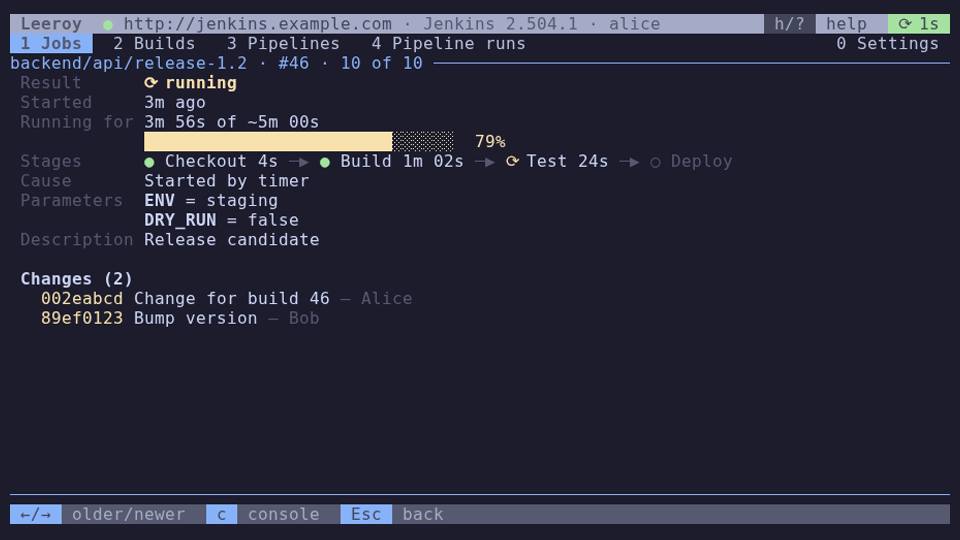
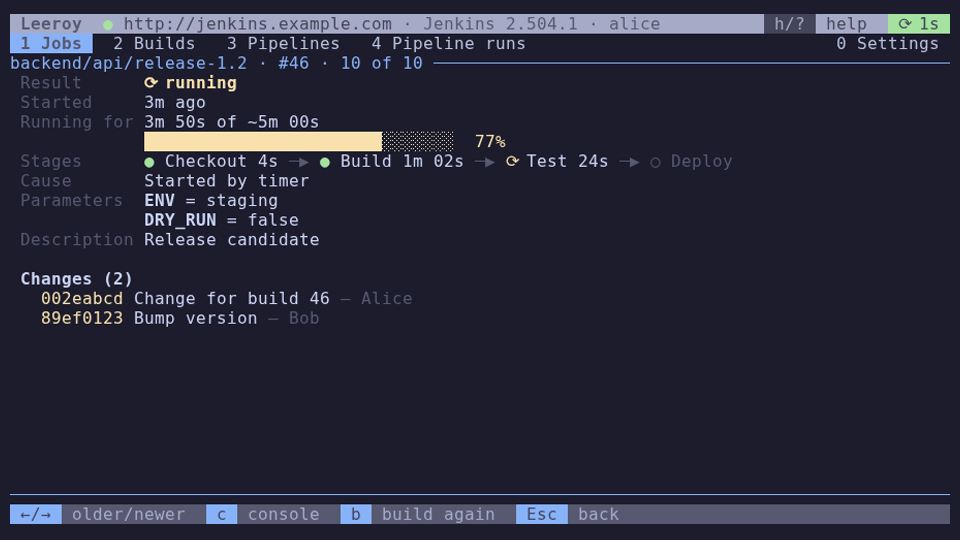
Start a build of a job with b
On the Jobs and Builds tabs b builds the selected job; in the build view
and the console it builds the shown build's job again. Same prompt
(titled "Start a build?"), trigger and notice as for pipeline runs;
afterwards what's on screen is refreshed.

diff --git a/src/app.rs b/src/app.rs
@@ -785,7 +785,7 @@ impl App {
                 }
             }
             Action::RequestStartRun => {
-                self.confirm_start = self.pipeline_to_start();
+                self.confirm_start = self.start_target();
             }
             Action::ConfirmStartRun => {
                 let Some(start) = self.confirm_start.take() else {
@@ -794,21 +794,22 @@ impl App {
                 let Some(config) = self.settings.connection_config() else {
                     return Vec::new();
                 };
+                let what = if start.pipeline { "run" } else { "build" };
                 return vec![Effect::TriggerBuild {
+                    name: format!("a {what} of {}", start.name),
                     job: start.job,
-                    name: start.name,
                     config,
                 }];
             }
             Action::BuildTriggered { name, result } => {
                 let ok = result.is_ok();
                 self.notice = Some(match result {
-                    Ok(()) => Notice::info(format!("Started a run of {name}"), self.now),
+                    Ok(()) => Notice::info(format!("Started {name}"), self.now),
                     Err(err) => Notice::error(format!("Could not start {name}: {err}"), self.now),
                 });
                 if ok {
                     // The new build appears once Jenkins starts it; look now.
-                    return self.fetch_pipelines();
+                    return self.refresh();
                 }
             }
             Action::OpenPromote => {
@@ -1743,13 +1744,24 @@ impl App {
         (pipeline, run)
     }
 
-    /// The pipeline `b` would start: selected in the Pipelines tab, or the one
-    /// the run view shows.
-    fn pipeline_to_start(&self) -> Option<StartRun> {
+    /// What `b` would start: the selected job (Jobs, Builds tabs) or the
+    /// shown build's job (build view, console) — or a pipeline: selected in
+    /// the Pipelines tab, or the one the run view shows.
+    fn start_target(&self) -> Option<StartRun> {
+        let job = |name: &str| {
+            Some(StartRun {
+                job: name.to_owned(),
+                name: name.to_owned(),
+                pipeline: false,
+            })
+        };
         let pipelines = match self.view {
+            View::Jobs => return job(&self.jobs.visible().get(self.jobs.selected)?.full_name),
+            View::Builds => return job(&self.history.visible().get(self.history.selected)?.job),
+            View::Build | View::Console => return job(&self.build.as_ref()?.job),
             View::Pipelines => self.pipelines.visible_pipelines(),
             View::Run => self.pipelines.pipelines(),
-            _ => return None,
+            View::Runs | View::Settings => return None,
         };
         let pipeline = match self.view {
             View::Pipelines => pipelines.get(self.pipelines.list.selected)?,
@@ -1761,6 +1773,7 @@ impl App {
         Some(StartRun {
             job: pipeline.first_job.clone(),
             name: pipeline.name.clone(),
+            pipeline: true,
         })
     }
 
@@ -2027,12 +2040,14 @@ pub struct PromoteList {
     pub ticked: std::collections::BTreeSet<usize>,
 }
 
-/// A pipeline to start (the "Start a run?" prompt).
+/// A job or pipeline to start (the "Start a build/run?" prompt).
 #[derive(Debug, Clone, PartialEq, Eq)]
 pub struct StartRun {
-    /// Its first job: the one that gets built.
+    /// The job that gets built (a pipeline's first job).
     pub job: String,
     pub name: String,
+    /// A pipeline run rather than a single job's build.
+    pub pipeline: bool,
 }
 
 /// How long a [`Notice`] stays on screen.
@@ -3831,7 +3846,7 @@ mod tests {
         assert_eq!(app.context(), Context::Pipelines, "prompt closed");
 
         let effects = app.update(Action::BuildTriggered {
-            name: "app".into(),
+            name: "a run of app".into(),
             result: Ok(()),
         });
         assert!(pipelines_fetch(&effects), "looks for the new run");
@@ -3851,9 +3866,9 @@ mod tests {
         app.update(Action::Back);
         assert_eq!(app.confirm_start, None);
         assert!(app.update(Action::ConfirmStartRun).is_empty());
-        app.update(Action::SwitchTab(Tab::Jobs));
+        app.update(Action::SwitchTab(Tab::Settings));
         app.update(Action::RequestStartRun);
-        assert_eq!(app.confirm_start, None, "only for pipelines");
+        assert_eq!(app.confirm_start, None, "nothing to start here");
     }
 
     #[test]
@@ -3968,5 +3983,55 @@ mod tests {
             app.update(Action::ConfirmPromote).as_slice(),
             [Effect::Promote { promotions, .. }] if promotions[0].job == "qa"
         ));
+    }
+
+    #[test]
+    fn b_builds_the_selected_or_shown_job() {
+        let trigger = |app: &mut App| -> (String, String) {
+            app.update(Action::RequestStartRun);
+            let start = app.confirm_start.clone().expect("prompt open");
+            assert!(!start.pipeline);
+            match app.update(Action::ConfirmStartRun).as_slice() {
+                [Effect::TriggerBuild { job, name, .. }] => (job.clone(), name.clone()),
+                other => panic!("{other:?}"),
+            }
+        };
+        let mut app = connected_with_jobs(&["a", "b"]);
+        app.update(Action::SelectNext);
+        assert_eq!(trigger(&mut app), ("b".into(), "a build of b".into()));
+
+        // The build view builds its job again.
+        app.update(Action::OpenBuild);
+        let generation = app.connection_generation;
+        app.update(Action::BuildFetched {
+            generation,
+            job: "b".into(),
+            which: BuildRef::Latest,
+            result: Ok(BuildPage {
+                build: Some(sample_build(4)),
+                numbers: Some(vec![4]),
+            }),
+        });
+        assert_eq!(trigger(&mut app).0, "b");
+        let effects = app.update(Action::BuildTriggered {
+            name: "a build of b".into(),
+            result: Ok(()),
+        });
+        assert!(
+            effects
+                .iter()
+                .any(|e| matches!(e, Effect::FetchBuild { .. })),
+            "refreshes what's on screen: {effects:?}"
+        );
+        assert_eq!(app.notice.as_ref().unwrap().text, "Started a build of b");
+    }
+
+    #[test]
+    fn b_on_the_builds_tab_builds_that_job() {
+        let mut app = builds_tab(five_builds());
+        app.update(Action::RequestStartRun);
+        let start = app.confirm_start.clone().expect("prompt open");
+        let selected = app.history.visible()[app.history.selected].job.clone();
+        assert_eq!(start.job, selected);
     }
 }

diff --git a/src/event.rs b/src/event.rs
@@ -49,11 +49,13 @@ pub fn context_bindings(context: Context) -> &'static [Binding] {
     const JOBS: &[Binding] = &[
         nav("↑/↓", "select"),
         bind("Enter", "last build"),
+        bind("b", "build"),
         bind("/", "filter"),
     ];
     const JOBS_FILTERED: &[Binding] = &[
         nav("↑/↓", "select"),
         bind("Enter", "last build"),
+        bind("b", "build"),
         bind("/", "filter"),
         bind("Esc", "clear filter"),
     ];
@@ -62,6 +64,7 @@ pub fn context_bindings(context: Context) -> &'static [Binding] {
         bind("←/→", "older/newer"),
         nav("Home/End", "first/last"),
         bind("c", "console"),
+        bind("b", "build again"),
         bind("Esc", "back"),
         nav("↑/↓", "scroll"),
     ];
@@ -70,16 +73,19 @@ pub fn context_bindings(context: Context) -> &'static [Binding] {
         nav("PgUp/PgDn", "page"),
         nav("Home/End", "top/bottom"),
         bind("c/Esc", "back"),
+        bind("b", "build again"),
         bind("←/→", "sideways"),
     ];
     const BUILDS: &[Binding] = &[
         nav("↑/↓", "select"),
         bind("Enter", "open build"),
+        bind("b", "build again"),
         bind("/", "filter"),
     ];
     const BUILDS_FILTERED: &[Binding] = &[
         nav("↑/↓", "select"),
         bind("Enter", "open build"),
+        bind("b", "build again"),
         bind("/", "filter"),
         bind("Esc", "clear filter"),
     ];
@@ -275,9 +281,15 @@ pub fn map_key(app: &App, key: KeyEvent) -> Option<Action> {
             KeyCode::Enter => Some(Action::OpenBuild),
             _ => None,
         },
-        (Context::Pipelines | Context::PipelinesFiltered, KeyCode::Char('b')) => {
-            Some(Action::RequestStartRun)
-        }
+        (
+            Context::Jobs
+            | Context::JobsFiltered
+            | Context::Builds
+            | Context::BuildsFiltered
+            | Context::Pipelines
+            | Context::PipelinesFiltered,
+            KeyCode::Char('b'),
+        ) => Some(Action::RequestStartRun),
         (
             Context::Jobs
             | Context::JobsFiltered
@@ -312,6 +324,7 @@ pub fn map_key(app: &App, key: KeyEvent) -> Option<Action> {
             KeyCode::Char('g') => Some(Action::SelectFirst),
             KeyCode::Char('G') => Some(Action::SelectLast),
             KeyCode::Char('c') => Some(Action::OpenConsole),
+            KeyCode::Char('b') => Some(Action::RequestStartRun),
             _ => None,
         },
         (Context::Console, code) => match code {
@@ -325,6 +338,7 @@ pub fn map_key(app: &App, key: KeyEvent) -> Option<Action> {
             KeyCode::Right => Some(Action::ScrollRight),
             // c toggles: it opened the console from the build view.
             KeyCode::Char('c') => Some(Action::Back),
+            KeyCode::Char('b') => Some(Action::RequestStartRun),
             _ => None,
         },
         _ => None,
@@ -385,6 +399,7 @@ mod tests {
                 app.confirm_start = Some(crate::app::StartRun {
                     job: "a".into(),
                     name: "a".into(),
+                    pipeline: true,
                 })
             }
             Context::JobsFiltered => app.jobs.filter = "api".into(),

diff --git a/tests/render.rs b/tests/render.rs
@@ -119,7 +119,7 @@ fn start_run_prompt_and_notice() {
         &[
             Action::ConfirmStartRun,
             Action::BuildTriggered {
-                name: "shop".into(),
+                name: "a run of shop".into(),
                 result: Ok(()),
             },
         ],
@@ -163,6 +163,19 @@ fn promotions_overlay() {
     insta::assert_snapshot!(screen);
     let effects = app.update(Action::ConfirmPromote);
     assert!(matches!(effects.as_slice(), [Effect::Promote { .. }]));
+}
+
+#[test]
+fn start_build_prompt() {
+    let mut app = app_with_jobs();
+    apply(&mut app, &[Action::RequestStartRun]);
+    let screen = format!("{}", render(&app).backend());
+    assert!(screen.contains("Start a build?"), "{screen}");
+    assert!(screen.contains("backend/api/main"), "{screen}");
+    assert!(
+        !screen.contains("(backend"),
+        "no first job for a job: {screen}"
+    );
 }
 
 #[test]

diff --git a/src/ui.rs b/src/ui.rs
@@ -1808,8 +1808,13 @@ fn render_confirm_start(frame: &mut Frame, area: Rect, app: &App) {
         .unwrap_or(40)
         .clamp(40, area.width.saturating_sub(4));
     let popup = centered(area, width, lines.len() as u16 + 2);
+    let title = if start.pipeline {
+        " Start a run? "
+    } else {
+        " Start a build? "
+    };
     let block = Block::bordered()
-        .title(" Start a run? ")
+        .title(title)
         .border_type(BorderType::Double)
         .border_style(Style::new().fg(t.warning));
     frame.render_widget(Clear, popup);

diff --git a/README.md b/README.md
@@ -227,6 +227,7 @@ build runs.
 | --- | --- |
 | `↑/↓` `j/k`, `PgUp/PgDn`, `g/G` | move |
 | `Enter` | details of the job's most recent build |
+| `b` | start a build of the job (asks first; default parameter values) |
 | `/` | filter (live, case-insensitive; space-separated words must all match) |
 | `Enter` / `Esc` while filtering | apply / cancel |
 | `Esc` | clear an applied filter |
@@ -252,6 +253,7 @@ a running build updates live), and the header's `⟳` age refers to it.
 | `←` / `→` | older / newer build (deleted builds are skipped) |
 | `Home` / `End` | first (oldest kept) / latest build |
 | `c` | console output of this build |
+| `b` | start a new build of this job (asks first) |
 | `↑/↓` `PgUp/PgDn` `g/G` | scroll |
 | `Esc` | back to the list |
 
@@ -273,6 +275,7 @@ and followed at the bottom. Scrolling up pauses following (the title says so);
 | `Home` / `End` | top / bottom (`End` = follow again) |
 | `←/→` | scroll long lines sideways |
 | `c` / `Esc` | back to the build (`c` toggles the console) |
+| `b` | start a new build of this job (asks first) |
 
 Colour codes are removed, `\r` progress bars show their final state, and at
 most the last 100 000 lines are kept.
@@ -281,7 +284,8 @@ most the last 100 000 lines are kept.
 
 The build history of all jobs, newest first: status, job and build number, when
 it started and how long it took (`…` while running). `Enter` opens the build (with
-`←/→`, `c` etc. as usual); `Esc` comes back here. `/` filters like on the Jobs tab.
+`←/→`, `c` etc. as usual); `Esc` comes back here. `b` starts a new build of the
+selected build's job (asks first). `/` filters like on the Jobs tab.
 
 Jenkins has no "newest builds overall" API, so Leeroy asks every job for its
 newest *N* builds in **one** request (`tree=jobs[…,builds[…]{0,N}]`), where *N* is

diff --git a/CLAUDE.md b/CLAUDE.md
@@ -106,7 +106,9 @@ Rules:
   `origin: View::Run` (Esc → run view → list). List rows are
   `ui::run_table`; the boxes are painted by `ui::paint_boxes` (scrolls to the
   selection, records the scroll in a `Cell`, returns the `more ←→↑↓` hint).
-- Writing to Jenkins: `b` (Pipelines tab, run view) → `Context::ConfirmStart`
+- Writing to Jenkins: `b` (Jobs/Builds tabs, build view, console: the job;
+  Pipelines tab, run view: the pipeline's first job; `App::start_target`) →
+  `Context::ConfirmStart`
   prompt (takes every key, like the quit prompt) → `Effect::TriggerBuild`.
   `jenkins::trigger_build` uses ONE client (cookies on): parameter check
   (`buildWithParameters` vs `build`), crumb from `crumbIssuer/api/json` (404 =

diff --git a/CHANGELOG.md b/CHANGELOG.md
@@ -22,7 +22,8 @@ A release's section is used as its GitHub release notes.
 - Build view: the stages of Pipeline builds, when Jenkins has the Pipeline Stage
   View plugin.
 - `b` on the Pipelines tab or in the run view: start a new run of the pipeline
-  (after a y/n prompt, with default parameter values).
+  (after a y/n prompt, with default parameter values); on the Jobs and Builds
+  tabs, in the build view and the console: start a build of that job.
 - `p` in the run view: promote, i.e. take the run's manual steps (e.g. the Build
   Pipeline plugin's), several at once; the new builds join the run.
 - `o`: open what's on screen in Jenkins' web UI (without URL credentials).

diff --git a/TODO.md b/TODO.md
@@ -40,6 +40,6 @@
 - [x] **Open in the browser**: a hotkey that opens the item on screen (job,
   build, console, pipeline run) in Jenkins' web UI.
 
-- [ ] **Start a build of a job**: `b` on the Jobs tab starts a build of the
+- [x] **Start a build of a job**: `b` on the Jobs tab starts a build of the
   selected job; in the build view (and console), `b` starts a new build of the
   job the shown build belongs to. Same y/n prompt as for pipelines.
